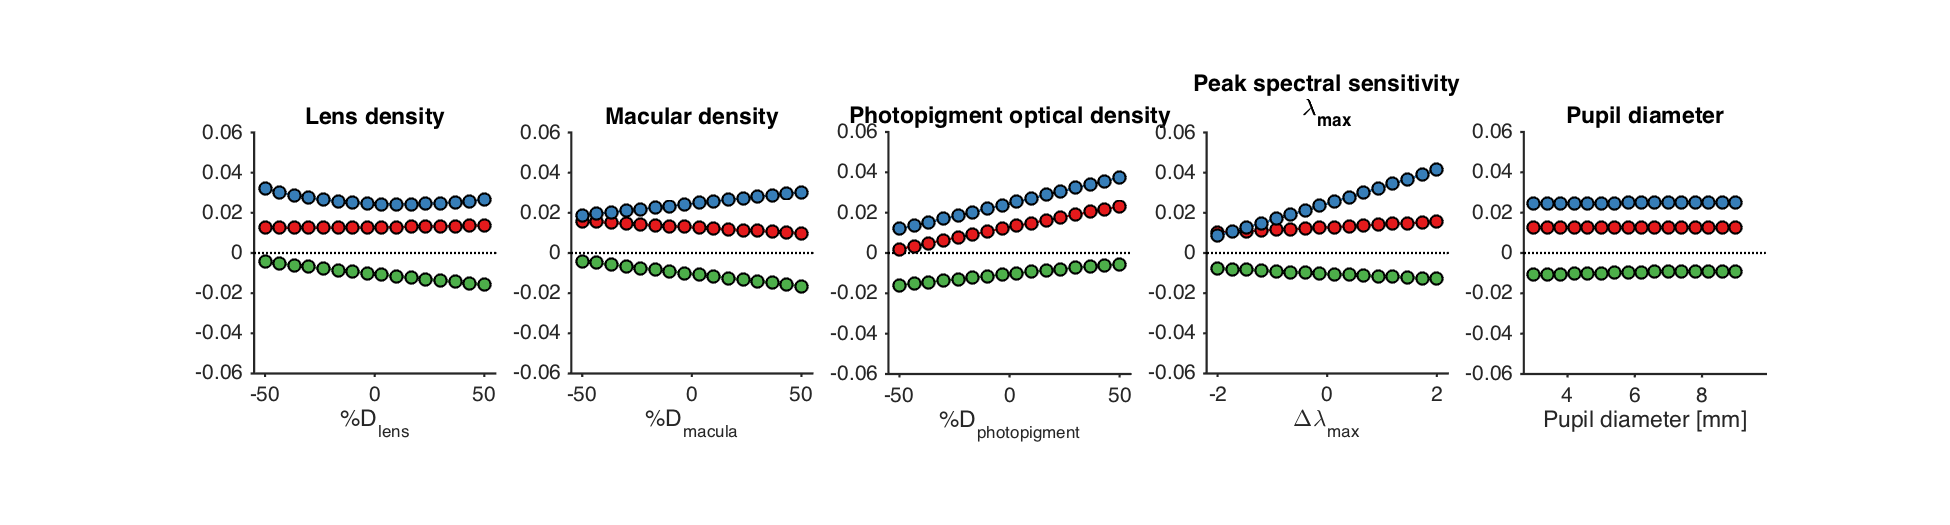
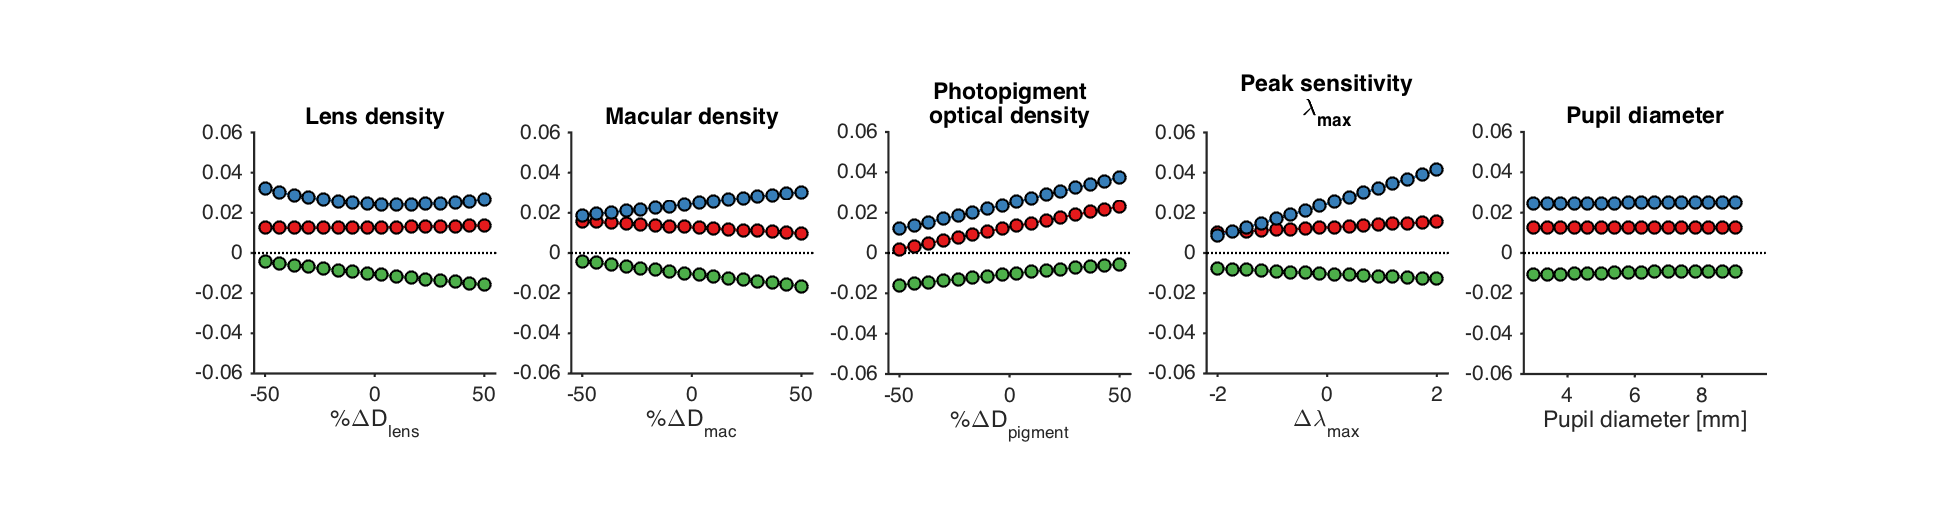
Updates

diff --git a/new/MaxMel/MaxMel_SplatterAnalysis.m b/new/MaxMel/MaxMel_SplatterAnalysis.m
@@ -1,0 +1,155 @@
+% Define the paths
+dropboxBasePath = '/Users/spitschan/Dropbox (Aguirre-Brainard Lab)';
+
+theDataPaths = {'MELA_data/MelanopsinMR_fMRI/MaxLMS400pct/HERO_asb1/040716/StimulusFiles/Cache-LMSDirectedSuperMaxLMS/BoxARandomizedLongCableCStubby1_ND00/23-Mar-2016_12_31_27/validation' ...
+    'MELA_data/MelanopsinMR_fMRI/MaxLMS400pct/HERO_aso1/033016/StimulusFiles/Cache-LMSDirectedSuperMaxLMS/BoxARandomizedLongCableCStubby1_ND00/23-Mar-2016_12_31_27/validation' ...
+    'MELA_data/MelanopsinMR_fMRI/MaxLMS400pct/HERO_gka1/040116/StimulusFiles/Cache-LMSDirectedSuperMaxLMS/BoxARandomizedLongCableCStubby1_ND00/23-Mar-2016_12_31_27/validation' ...
+    'MELA_data/MelanopsinMR_fMRI/MaxLMS400pct/HERO_mxs1/040816/StimulusFiles/Cache-LMSDirectedSuperMaxLMS/BoxARandomizedLongCableCStubby1_ND00/23-Mar-2016_12_31_27/validation' ...
+    'MELA_data/MelanopsinMR_fMRI/MaxLMSCRF/HERO_asb1/060816/StimulusFiles/Cache-LMSDirectedSuperMaxLMS/BoxARandomizedLongCableBStubby1_ND00/29-May-2016_14_48_42/validation' ...
+    'MELA_data/MelanopsinMR_fMRI/MaxLMSCRF/HERO_aso1/060116/StimulusFiles/Cache-LMSDirectedSuperMaxLMS/BoxARandomizedLongCableBStubby1_ND00/29-May-2016_14_48_42/validation' ...
+    'MELA_data/MelanopsinMR_fMRI/MaxLMSCRF/HERO_gka1/060616/StimulusFiles/Cache-LMSDirectedSuperMaxLMS/BoxARandomizedLongCableBStubby1_ND00/29-May-2016_14_48_42/validation' ...
+    'MELA_data/MelanopsinMR_fMRI/MaxLMSCRF/HERO_mxs1/061016/StimulusFiles/Cache-LMSDirectedSuperMaxLMS/BoxARandomizedLongCableBStubby1_ND00/29-May-2016_14_48_42/validation' ...
+    'MELA_data/MelanopsinMR_fMRI/MaxLMSCRF/HERO_mxs1/062816/StimulusFiles/Cache-LMSDirectedSuperMaxLMS/BoxARandomizedLongCableBStubby1_ND03CassetteB/20-Jun-2016_15_17_02/validation' ...
+    'MELA_data/MelanopsinMR_fMRI/MaxMel400pct/HERO_asb1/032416/StimulusFiles/Cache-MelanopsinDirectedSuperMaxMel/BoxARandomizedLongCableCStubby1_ND00/23-Mar-2016_12_31_27/validation' ...
+    'MELA_data/MelanopsinMR_fMRI/MaxMel400pct/HERO_aso1/032516/StimulusFiles/Cache-MelanopsinDirectedSuperMaxMel/BoxARandomizedLongCableCStubby1_ND00/23-Mar-2016_12_31_27/validation' ...
+    'MELA_data/MelanopsinMR_fMRI/MaxMel400pct/HERO_gka1/033116/StimulusFiles/Cache-MelanopsinDirectedSuperMaxMel/BoxARandomizedLongCableCStubby1_ND00/23-Mar-2016_12_31_27/validation' ...
+    'MELA_data/MelanopsinMR_fMRI/MaxMel400pct/HERO_mxs1/040616/StimulusFiles/Cache-MelanopsinDirectedSuperMaxMel/BoxARandomizedLongCableCStubby1_ND00/23-Mar-2016_12_31_27/validation' ...
+    'MELA_data/MelanopsinMR_fMRI/MaxMelCRF/HERO_asb1/060716/StimulusFiles/Cache-MelanopsinDirectedSuperMaxMel/BoxARandomizedLongCableBStubby1_ND00/29-May-2016_14_48_42/validation' ...
+    'MELA_data/MelanopsinMR_fMRI/MaxMelCRF/HERO_aso1/053116/StimulusFiles/Cache-MelanopsinDirectedSuperMaxMel/BoxARandomizedLongCableBStubby1_ND00/29-May-2016_14_48_42/validation' ...
+    'MELA_data/MelanopsinMR_fMRI/MaxMelCRF/HERO_gka1/060216/StimulusFiles/Cache-MelanopsinDirectedSuperMaxMel/BoxARandomizedLongCableBStubby1_ND00/29-May-2016_14_48_42/validation' ...
+    'MELA_data/MelanopsinMR_fMRI/MaxMelCRF/HERO_mxs1/060916/StimulusFiles/Cache-MelanopsinDirectedSuperMaxMel/BoxARandomizedLongCableBStubby1_ND00/29-May-2016_14_48_42/validation' ...
+    'MELA_data/MelanopsinMR_fMRI/MaxMelCRF/HERO_mxs1/061016/StimulusFiles/Cache-MelanopsinDirectedSuperMaxMel/BoxARandomizedLongCableBStubby1_ND00/29-May-2016_14_48_42/validation' ...
+    'MELA_data/MelanopsinMR_fMRI/SplatterControlCRF/HERO_asb1/051016/StimulusFiles/Cache-MaxMelPostreceptoralSplatterControl/BoxARandomizedLongCableCStubby1_ND00/18-Apr-2016_10_23_32/validation' ...
+    'MELA_data/MelanopsinMR_fMRI/SplatterControlCRF/HERO_aso1/042916/StimulusFiles/Cache-MaxMelPostreceptoralSplatterControl/BoxARandomizedLongCableCStubby1_ND00/18-Apr-2016_10_23_32/validation' ...
+    'MELA_data/MelanopsinMR_fMRI/SplatterControlCRF/HERO_gka1/050616/StimulusFiles/Cache-MaxMelPostreceptoralSplatterControl/BoxARandomizedLongCableCStubby1_ND00/18-Apr-2016_10_23_32/validation' ...
+    'MELA_data/MelanopsinMR_fMRI/SplatterControlCRF/HERO_mxs1/050916/StimulusFiles/Cache-MaxMelPostreceptoralSplatterControl/BoxARandomizedLongCableCStubby1_ND00/18-Apr-2016_10_23_32/validation'}
+
+theStimuli = {'LMS 400%' 'LMS 400%'  'LMS 400%'  'LMS 400%'  ...
+    'LMS CRF'  'LMS CRF'  'LMS CRF'  'LMS CRF' 'LMS CRF'...
+    'Mel 400%' 'Mel 400%'  'Mel 400%'  'Mel 400%'  ...
+    'Mel CRF'  'Mel CRF'  'Mel CRF'  'Mel CRF' 'Mel CRF' ...
+    'Splatter CRF' 'Splatter CRF' 'Splatter CRF'  'Splatter CRF'};
+theObservers = {'ASB' 'ASO' 'GKA' 'MXS' ...
+    'ASB' 'ASO' 'GKA' 'MXS [1]' 'MXS [2]'...
+    'ASB' 'ASO' 'GKA' 'MXS' ...
+    'ASB' 'ASO' 'GKA' 'MXS [1]' 'MXS [2]' ...
+    'ASB' 'ASO' 'GKA' 'MXS'}
+
+fid = fopen('~/Desktop/test.csv', 'w');
+fprintf(fid, 'Stimulus,Observer,Luminance,SD,Chromaticity x,SD,Chromaticity y,SD,L contrast [%s],SD,M contrast [%s],SD,S contrast [%s],SD,LMS contrast [%s],SD,L-M contrast [%s],SD\n', '%', '%', '%', '%', '%');
+
+
+currDir = pwd;
+Mc = [];
+for d = 1:length(theDataPaths)
+    dataPath = theDataPaths{d};
+    
+    % Find the folders
+    theFolders = dir(fullfile(dropboxBasePath, dataPath));
+    
+    % Increment the counter
+    c = 1;
+    clear contrasts;
+    clear postRecepContrasts;
+    clear luminance;
+    clear chromaticity;
+    
+    % Iterate over the folders
+    for f = 1:length(theFolders)
+        if ~strcmpi(theFolders(f).name, '.') && ~strcmpi(theFolders(f).name, '..')
+            fprintf('>> Validation %s\n', theFolders(f).name);
+            
+            % Go to the folder
+            if isdir(fullfile(dropboxBasePath, dataPath, theFolders(f).name))
+                cd(fullfile(dropboxBasePath, dataPath, theFolders(f).name));
+            end
+            
+            % Find the only MAT file there is going to be
+            theMATFile = dir([pwd '/*.mat']);
+            
+            if ~isempty(theMATFile)
+                % Load the MAT file
+                tmp = load(theMATFile.name);
+                
+                % Extract the infomation
+                S = tmp.cals{1}.describe.cache.data(32).describe.S;
+                wls = SToWls(S);
+                observerAgeInYrs = tmp.cals{1}.describe.cache.REFERENCE_OBSERVER_AGE;
+                fractionBleached = tmp.cals{1}.describe.cache.data(observerAgeInYrs).describe.fractionBleached;
+                pupilDiameterMm = tmp.cals{1}.describe.cache.data(observerAgeInYrs).describe.params.pupilDiameterMm;
+                fieldSizeDegrees = tmp.cals{1}.describe.cache.data(observerAgeInYrs).describe.params.fieldSizeDegrees;
+                
+ 
+                bgSpd = tmp.cals{1}.modulationBGMeas.meas.pr650.spectrum; hold on;
+                modSpd = tmp.cals{1}.modulationMaxMeas.meas.pr650.spectrum;
+
+                plot(wls, bgSpd);
+                plot(wls, modSpd);
+                
+                % Calculate luminance and chromaticity
+                % Load the CIE functions
+                load T_xyz1931
+                T_xyz = SplineCmf(S_xyz1931,683*T_xyz1931,WlsToS(wls));
+                
+                % Calculate luminance and chromaticy
+                luminance(c) = T_xyz(2, :)*bgSpd;
+                chromaticity(:, c) = (T_xyz([1 2], :)*bgSpd)/sum((T_xyz*bgSpd));
+                
+                
+                
+                % Set up the receptor object
+                receptorObj = SSTReceptorHuman('obsAgeYrs', observerAgeInYrs, 'fieldSizeDeg', fieldSizeDegrees, 'obsPupilDiameterMm', pupilDiameterMm);
+                T_rec = receptorObj.T.T_energyNormalized;
+                T_val = tmp.cals{1}.describe.cache.data(observerAgeInYrs).describe.T_receptors;
+                
+                % Calculate the numerical difference between the assumed and the
+                % reconstructed receptor sensitvities
+                for ii = 1:size(T_rec, 1)-1
+                    tmp1 = sum(T_rec(1, :) - T_val(1, :));
+                    if tmp1 > 0
+                        error('Error: Couldn''t reconstruct receptor sensitivities...');
+                    end
+                end
+                
+                % Calculate the nominal contrast
+                for jj = 1:size(T_rec, 1)
+                    contrasts(:, c) = (T_rec*(modSpd-bgSpd))./(T_rec*bgSpd);
+                end
+                postRecepContrasts(:, c) = [1 1 1 ; 1 -1 0]' \ contrasts(:, c);
+                
+                
+                % Increment the counter
+                c = c+1;
+            end
+            
+        end
+    end
+    % Take the average
+    lumMean = mean(luminance);
+    lumSD = std(luminance);
+    chromMean = mean(chromaticity, 2);
+    chromSD = std(chromaticity, [], 2);
+    
+    contrastsMean = mean(contrasts, 2);
+    contrastsSD = std(contrasts, [], 2);
+    postRecepContrastsMean = mean(postRecepContrasts, 2);
+    postRecepContrastsSD = std(postRecepContrasts, [], 2);
+    
+    M = [];
+    M = [M lumMean lumSD chromMean(1) chromSD(1) chromMean(2) chromSD(2)];
+    for m = 1:length(contrastsMean)
+        M = [M 100*contrastsMean(m) 100*contrastsSD(m)];
+    end
+    for m = 1:length(postRecepContrastsMean)
+        M = [M 100*postRecepContrastsMean(m) 100*postRecepContrastsSD(m)];
+    end
+    
+    fprintf(fid, '%s,%s,', theStimuli{d}, theObservers{d});
+    for ii = 1:length(M);
+        fprintf(fid, '%.2f,', M(ii));
+    end
+    fprintf(fid, '\n');
+    
+end
+cd(currDir);
+fclose(fid);

diff --git a/new/@SSTReceptorHuman/makeSpectralSensitivitiesParametricVariation.m b/new/@SSTReceptorHuman/makeSpectralSensitivitiesParametricVariation.m
@@ -29,7 +29,7 @@ for ii = 1:NTitrations
             parv = linspace(-50, 50, NTitrations);
             indDiffParams = DefaultIndDiffParams;
             indDiffParams.dlens = parv(ii);
-            parvlabel = '%D_{lens}';
+            parvlabel = '%\DeltaD_{lens}';
             parvlabellong = 'Lens density';
             [T_quantalAbsorptionsNormalized,T_quantalAbsorptions,T_quantalIsomerizations,adjIndDiffParams] = ComputeCIEConeFundamentals(obj.S,...
                 obj.fieldSizeDeg,obj.obsAgeInYrs,obj.obsPupilDiameterMm,[],[],[], ...
@@ -38,7 +38,7 @@ for ii = 1:NTitrations
             parv = linspace(-50, 50, NTitrations);
             indDiffParams = DefaultIndDiffParams;
             indDiffParams.dmac = parv(ii);
-            parvlabel = '%D_{macula}';
+            parvlabel = '%\DeltaD_{mac}';
             parvlabellong = 'Macular density';
             [T_quantalAbsorptionsNormalized,T_quantalAbsorptions,T_quantalIsomerizations,adjIndDiffParams] = ComputeCIEConeFundamentals(obj.S,...
                 obj.fieldSizeDeg,obj.obsAgeInYrs,obj.obsPupilDiameterMm,[],[],[], ...
@@ -47,8 +47,8 @@ for ii = 1:NTitrations
             parv = linspace(-50, 50, NTitrations);
             indDiffParams = DefaultIndDiffParams;
             indDiffParams.dphotopigment = [parv(ii) parv(ii) parv(ii)];
-            parvlabel = '%D_{photopigment}';
-            parvlabellong =  'Photopigment optical density';
+            parvlabel = '%\DeltaD_{pigment}';
+            parvlabellong =  {'Photopigment' ; 'optical density'};
             [T_quantalAbsorptionsNormalized,T_quantalAbsorptions,T_quantalIsomerizations,adjIndDiffParams] = ComputeCIEConeFundamentals(obj.S,...
                 obj.fieldSizeDeg,obj.obsAgeInYrs,obj.obsPupilDiameterMm,[],[],[], ...
                 false,[],[],indDiffParams);
@@ -57,7 +57,7 @@ for ii = 1:NTitrations
             indDiffParams = DefaultIndDiffParams;
             indDiffParams.lambdaMaxShift = [parv(ii) parv(ii) parv(ii)];
             parvlabel = '\Delta\lambda_{max}';
-            parvlabellong = {'Peak spectral sensitivity' '\lambda_{max}'};
+            parvlabellong = {'Peak sensitivity' '\lambda_{max}'};
             [T_quantalAbsorptionsNormalized,T_quantalAbsorptions,T_quantalIsomerizations,adjIndDiffParams] = ComputeCIEConeFundamentals(obj.S,...
                 obj.fieldSizeDeg,obj.obsAgeInYrs,obj.obsPupilDiameterMm,[],[],[], ...
                 false,[],[],indDiffParams);

diff --git a/new/SSTReceptorDemo.m b/new/SSTReceptorDemo.m
@@ -49,7 +49,7 @@ for ss = 1:length(theIndDiffParams)
         plot(parv, contrasts(ii, :)', '-o', 'Color', theRGB(ii, :), 'MarkerEdgeColor', 'k', ...
             'MarkerFaceColor', theRGB(ii, :)); hold on;
     end
-    
+
     % Add title and tweak plots
     title(parvlabellong);
     box off;
